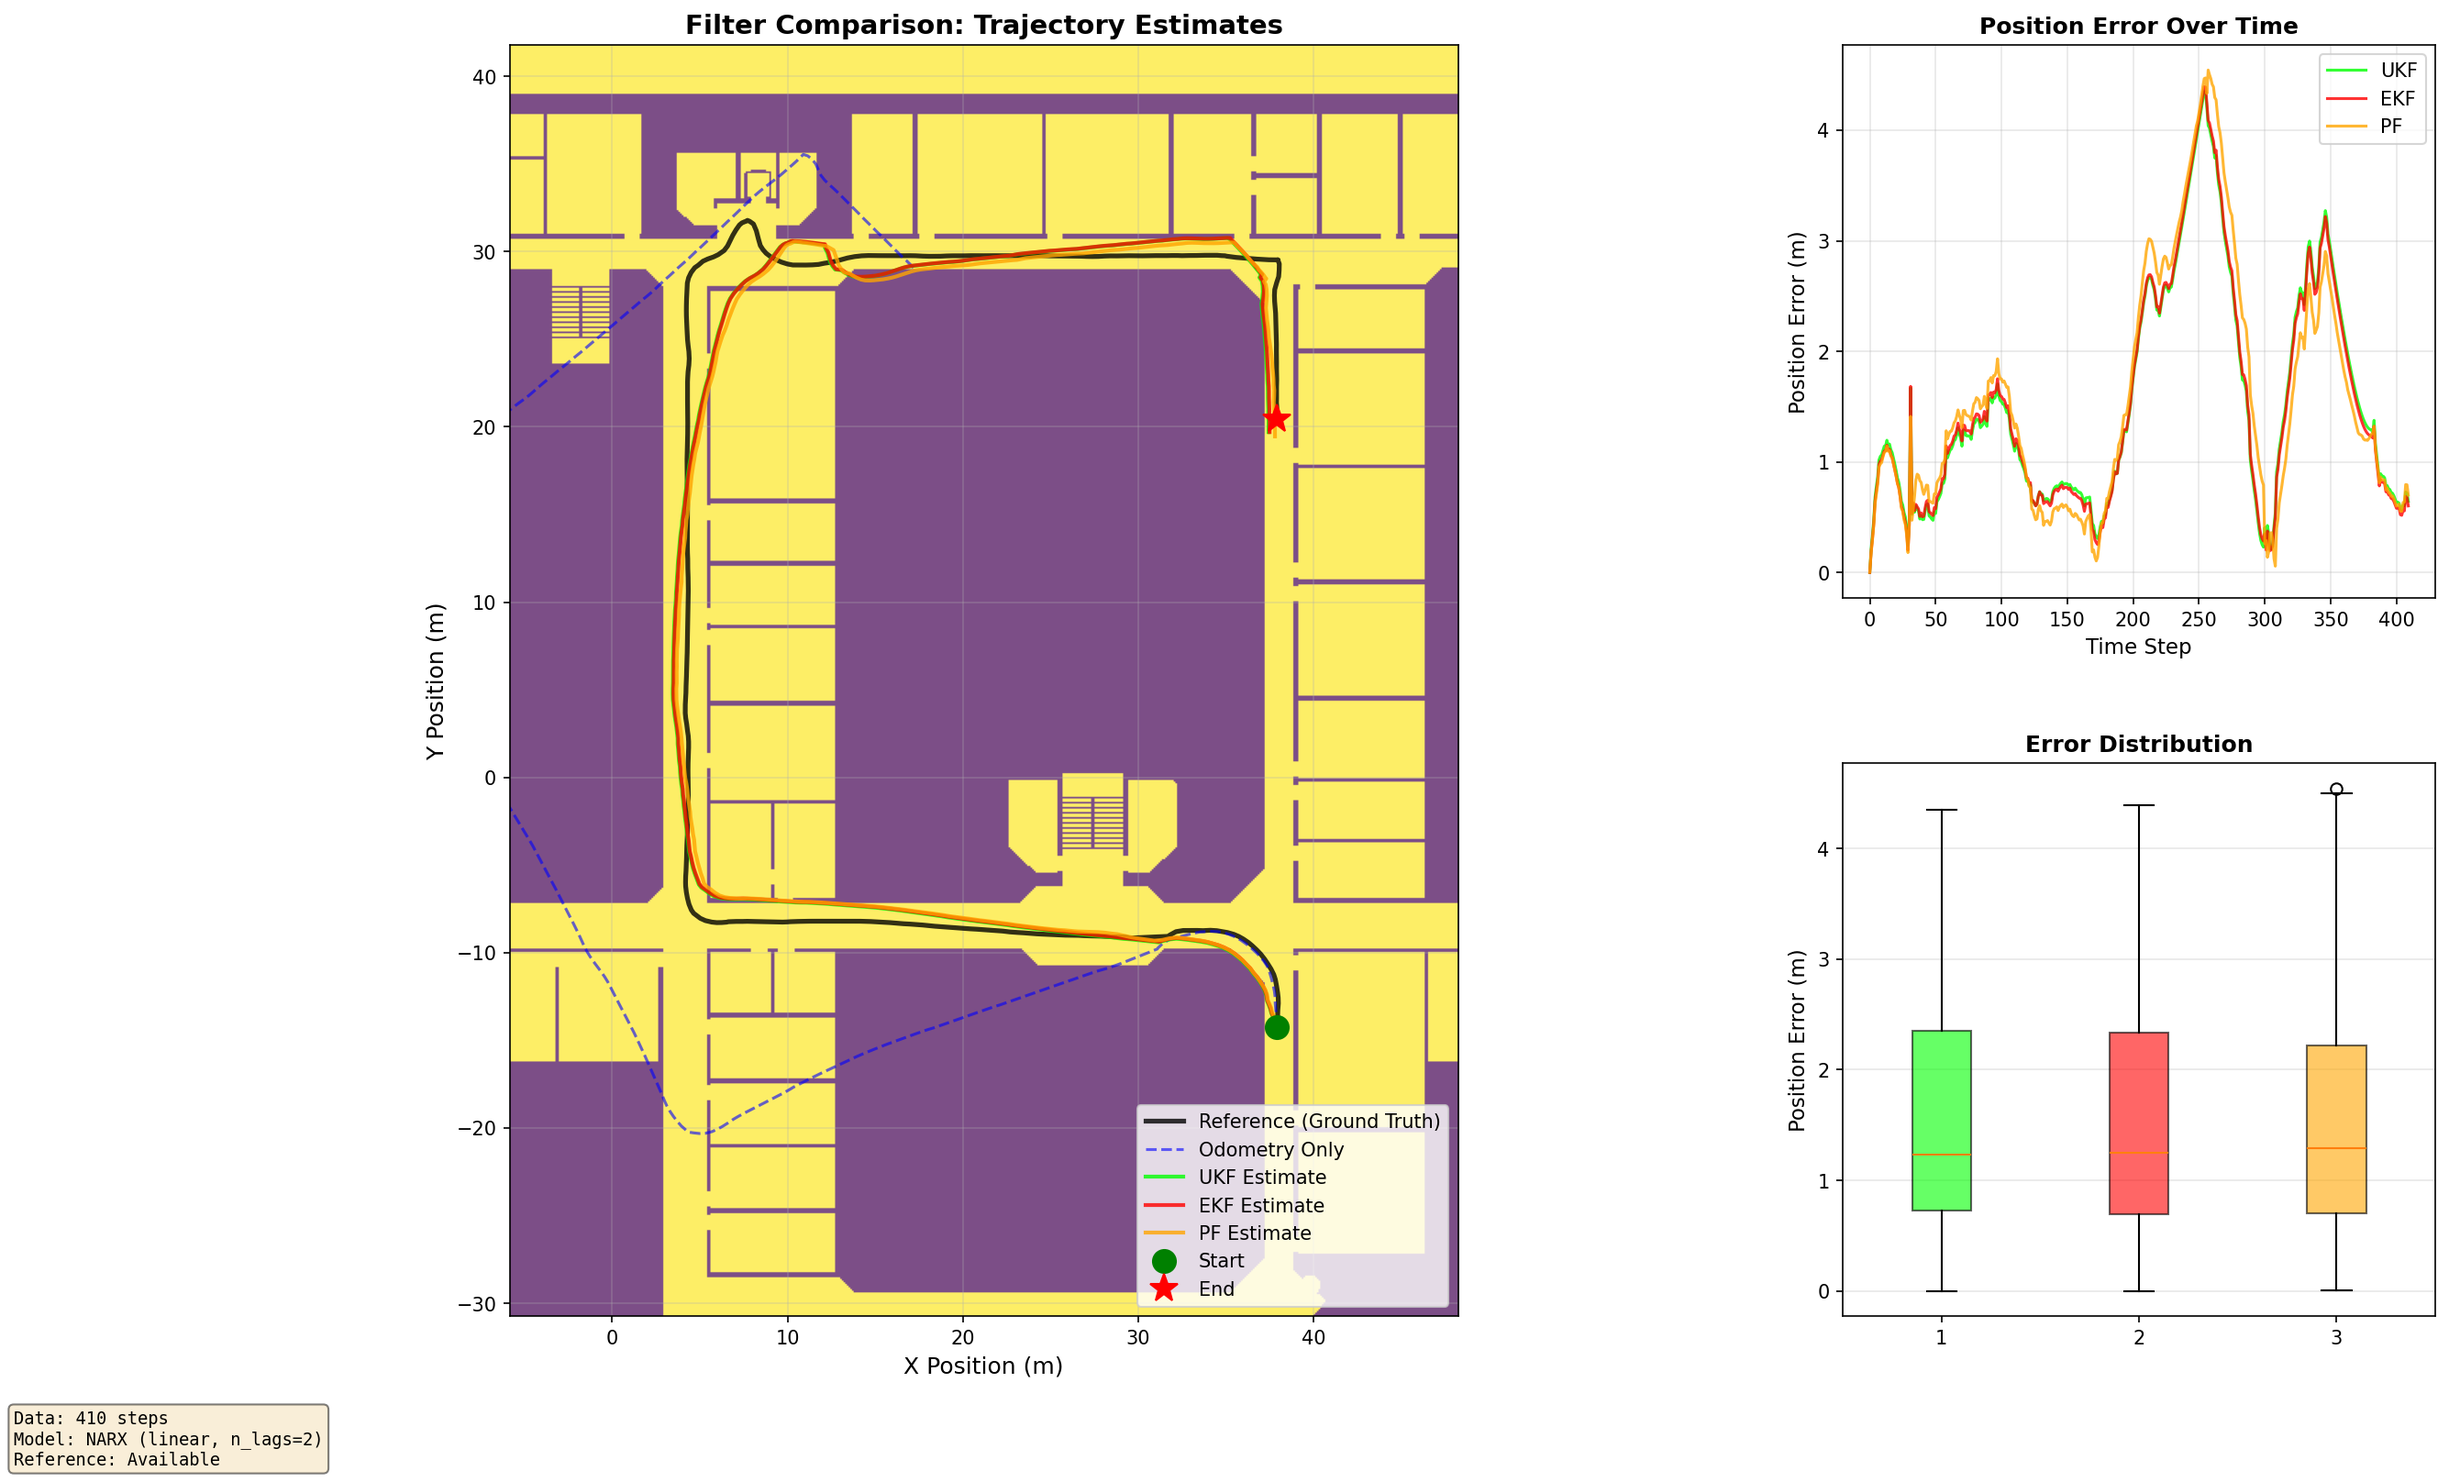
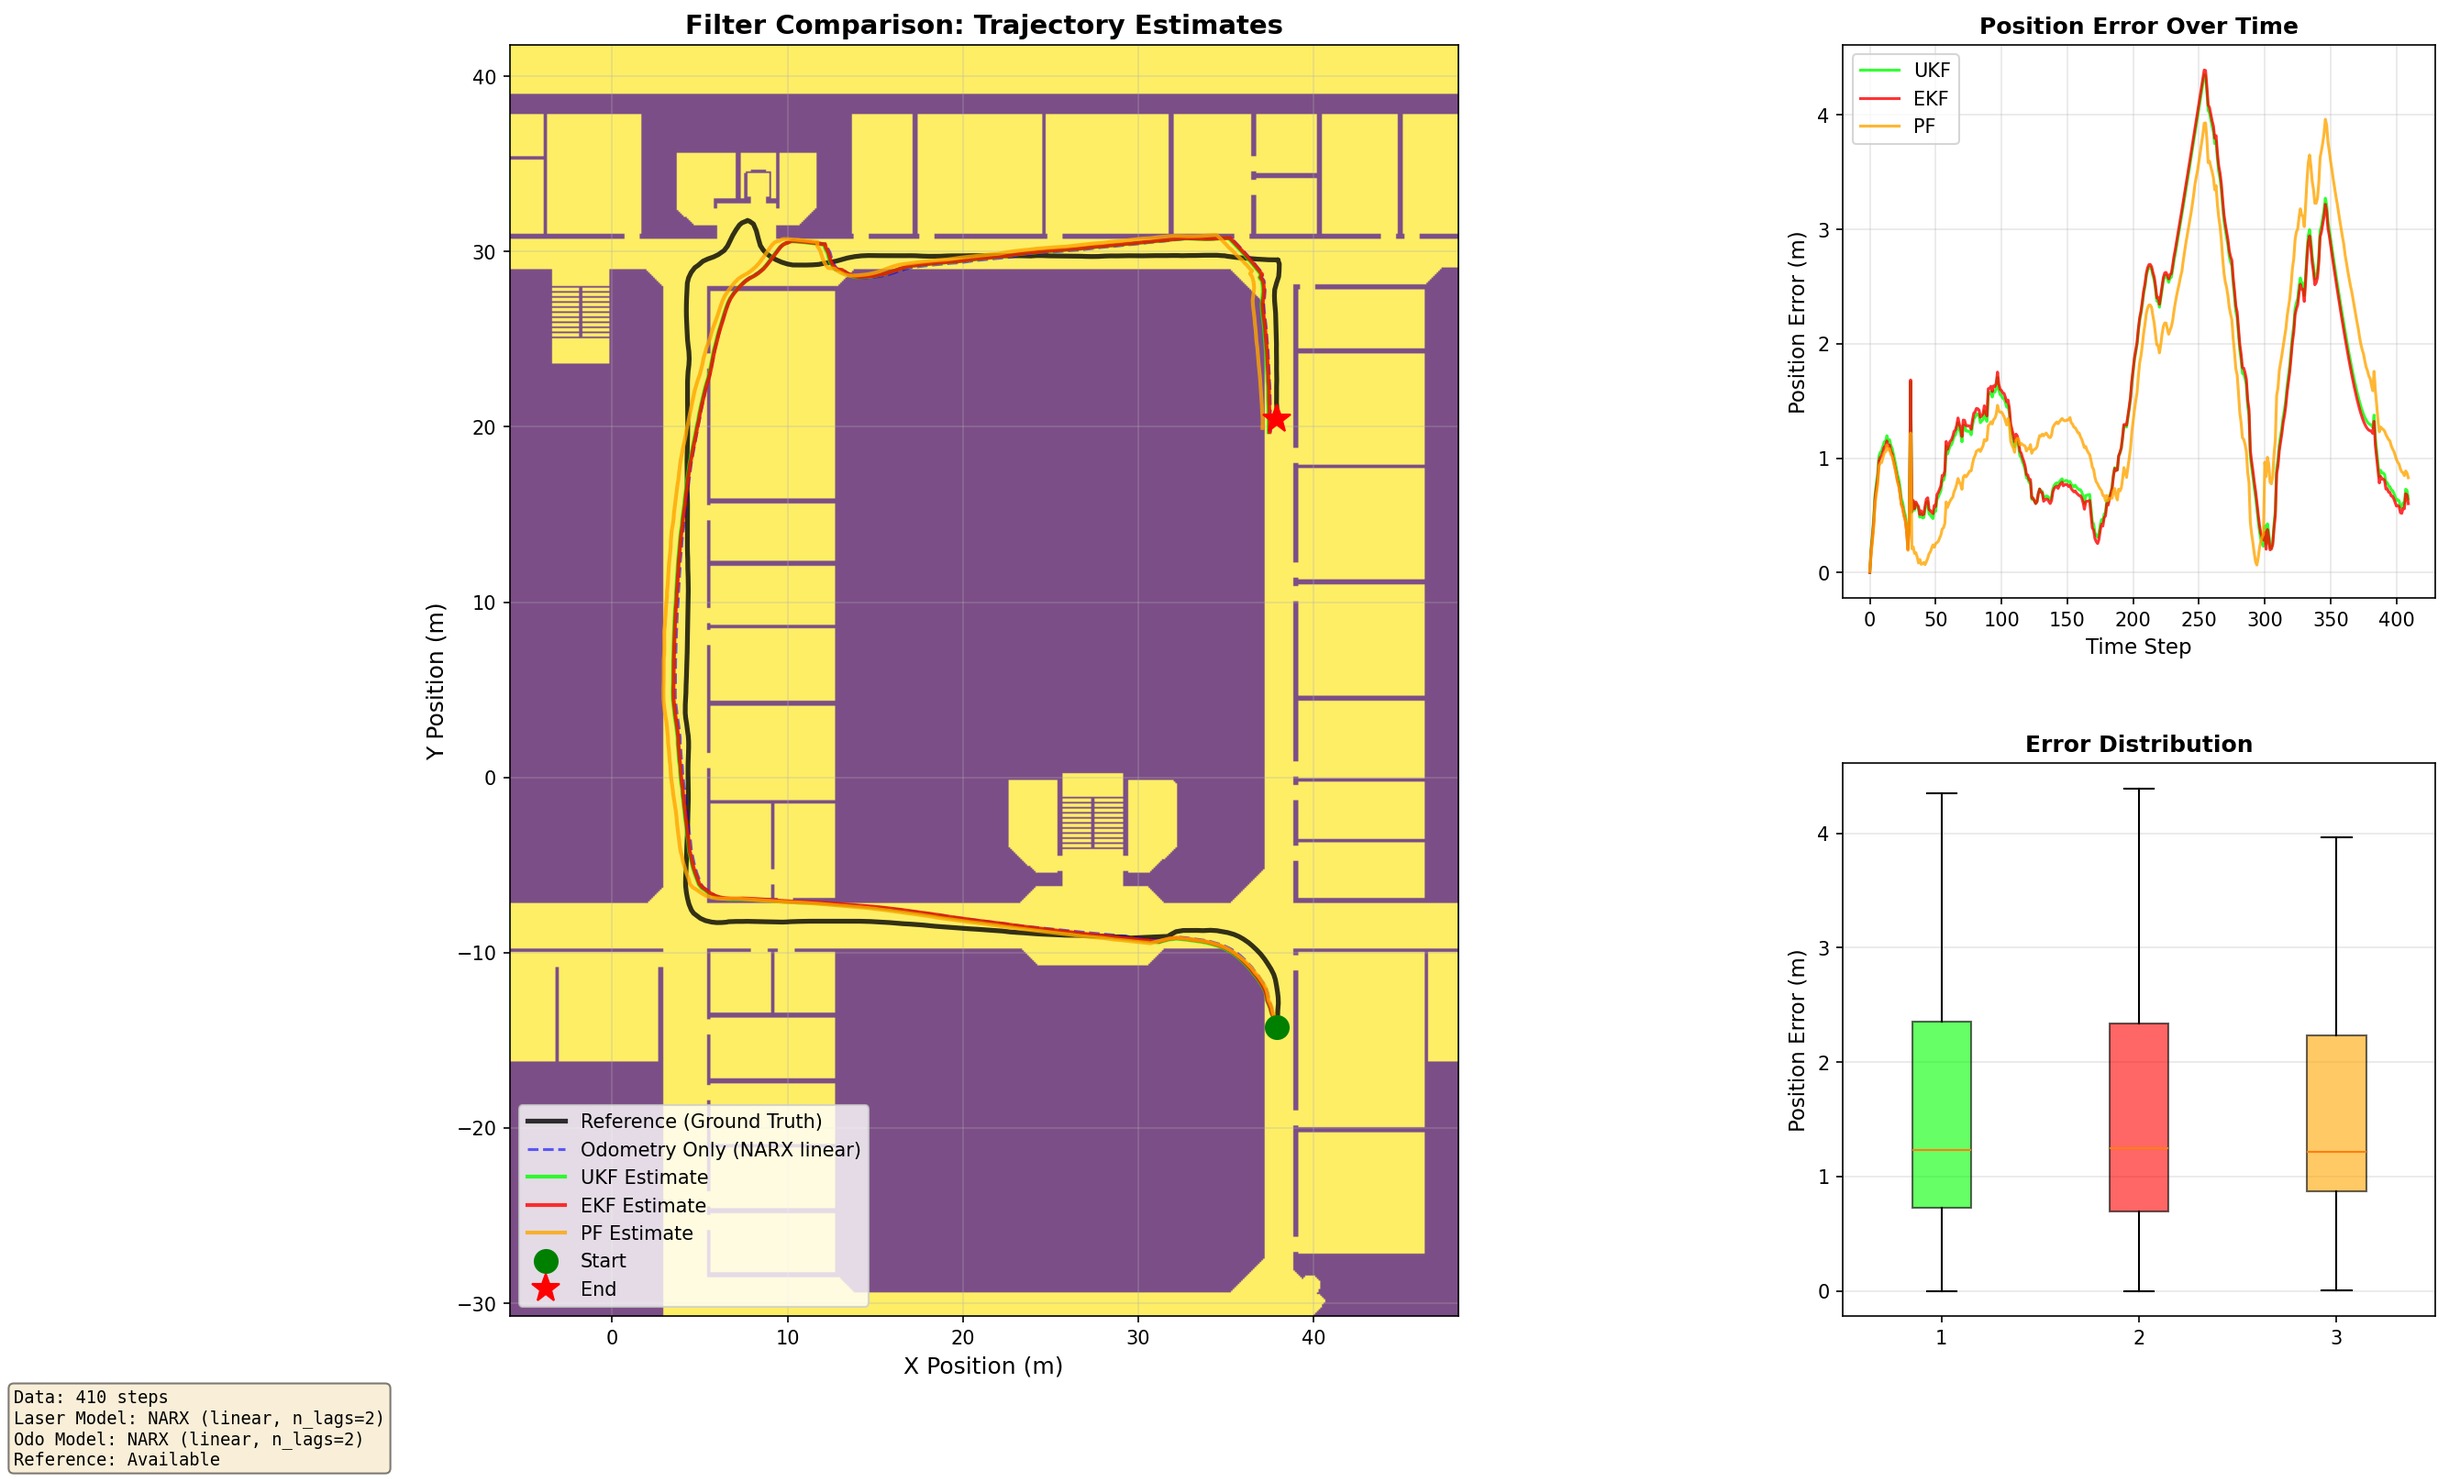
Enhance odometry model support and update filter comparison metrics

diff --git a/trabalho/compare_filters.py b/trabalho/compare_filters.py
@@ -54,8 +54,16 @@ def load_data(args):
         if ref_traj.ndim == 1:
             ref_traj = ref_traj.reshape(-1, 3)
     
-    # Odometry trajectory for comparison
-    odom_traj = build_odometry_trajectory(args.odo_diff, initial_pose)
+    # Odometry trajectory for comparison - use NARX model if provided
+    if odo_model_params is not None:
+        # Use odometry NARX model
+        from OdometryDynamicModel import OdometryNARXModel
+        is_odo_narx, odo_narx_model, odo_poly_features, odo_narx_config = odo_model_params
+        odo_model_obj = OdometryNARXModel(odo_narx_model, odo_poly_features, odo_narx_config, initial_pose)
+        odom_traj = odo_model_obj.simulate(odo_deltas)
+    else:
+        # Use simple additive odometry model
+        odom_traj = build_odometry_trajectory(args.odo_diff, initial_pose)
     
     return {
         'map_info': map_info,
@@ -291,8 +299,14 @@ def plot_comparison(data: dict, trajectories: dict, exec_times: dict, output_pat
         ax_main.plot(ref_traj[:, 0], ref_traj[:, 1], 'k-', linewidth=2.5, 
                     label='Reference (Ground Truth)', alpha=0.8)
     
+    # Label odometry trajectory based on model type
+    odo_label = 'Odometry Only'
+    if data.get('odo_model_params') is not None:
+        _, _, _, odo_config = data['odo_model_params']
+        odo_label = f"Odometry Only (NARX {odo_config['model_type']})"
+    
     ax_main.plot(odom_traj[:, 0], odom_traj[:, 1], 'b--', linewidth=1.5,
-                label='Odometry Only', alpha=0.6)
+                label=odo_label, alpha=0.6)
     
     for name, traj in trajectories.items():
         ax_main.plot(traj[:, 0], traj[:, 1], 
@@ -375,9 +389,17 @@ def plot_comparison(data: dict, trajectories: dict, exec_times: dict, output_pat
     is_narx = data['laser_model_params'][0]
     if is_narx:
         _, _, _, narx_config = data['laser_model_params']
-        info_text += f"Model: NARX ({narx_config['model_type']}, n_lags={narx_config['n_lags']})\n"
+        info_text += f"Laser Model: NARX ({narx_config['model_type']}, n_lags={narx_config['n_lags']})\n"
     else:
-        info_text += "Model: Linear\n"
+        info_text += "Laser Model: Linear\n"
+    
+    # Add odometry model info
+    if data.get('odo_model_params') is not None:
+        _, _, _, odo_config = data['odo_model_params']
+        info_text += f"Odo Model: NARX ({odo_config['model_type']}, n_lags={odo_config['n_lags']})\n"
+    else:
+        info_text += "Odo Model: Additive\n"
+    
     info_text += f"Reference: {'Available' if ref_traj is not None else 'Not available'}"
     
     fig.text(0.02, 0.02, info_text, fontsize=9, family='monospace',
@@ -521,13 +543,20 @@ def main():
     print("\nLoading data...")
     data = load_data(args)
     
-    # Check model type
+    # Check laser model type
     is_narx = data['laser_model_params'][0]
     if is_narx:
         _, _, _, narx_config = data['laser_model_params']
-        print(f"Using NARX model: {narx_config['model_type']}, n_lags={narx_config['n_lags']}")
+        print(f"Using laser NARX model: {narx_config['model_type']}, n_lags={narx_config['n_lags']}")
     else:
-        print("Using linear model")
+        print("Using linear laser model")
+    
+    # Check odometry model type
+    if data.get('odo_model_params') is not None:
+        _, _, _, odo_config = data['odo_model_params']
+        print(f"Using odometry NARX model: {odo_config['model_type']}, n_lags={odo_config['n_lags']}")
+    else:
+        print("Using simple additive odometry model")
     
     # Load or use default parameters for each filter
     print("\nLoading filter parameters...")
